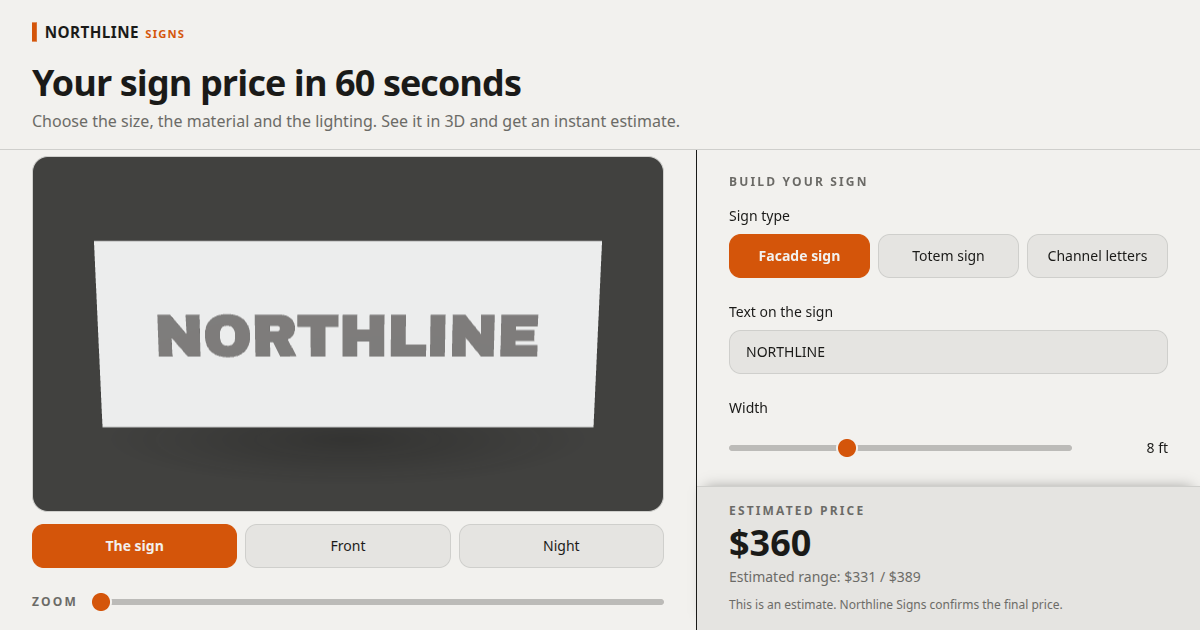
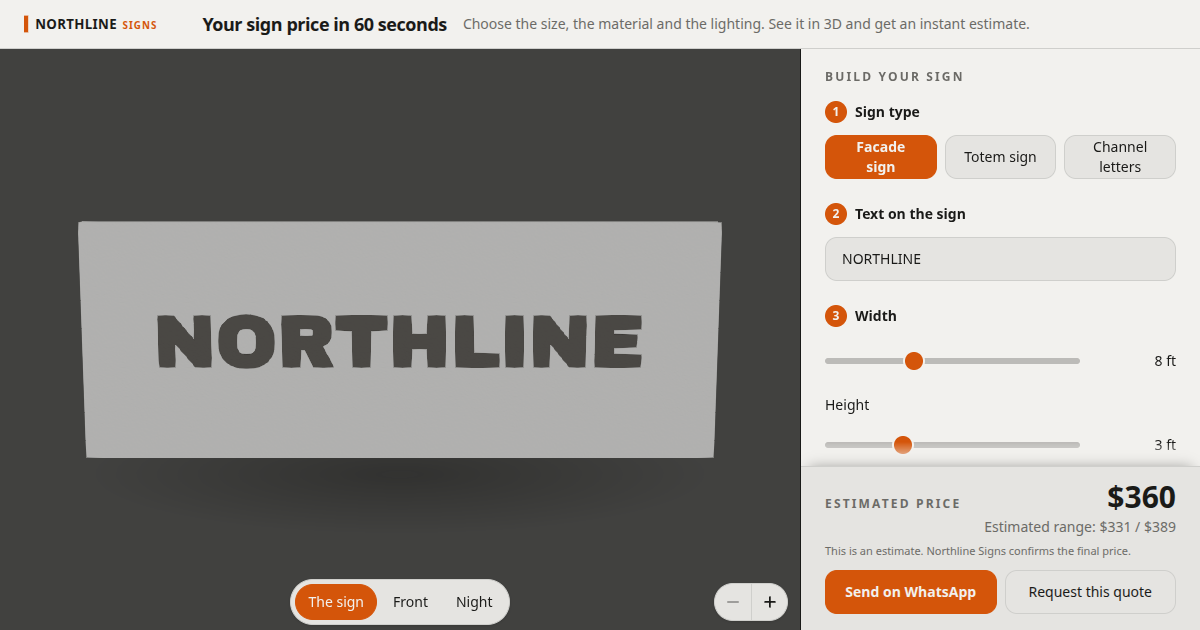
feat: preview a la medida de la foto, franja de controles y material de venta

diff --git a/src/verticals/signs/SignPreview.tsx b/src/verticals/signs/SignPreview.tsx
@@ -3,7 +3,7 @@ import { useEffect, useRef, useState, type CSSProperties } from 'react'
 import type { ClientPhoto, SignSelection } from '../../core/types'
 import type { LoadingBrand } from '../../core/ui/LoadingScreen'
 import { PhotoStage } from './PhotoStage'
-import { containBox, signZoomFactor, zoomBy, zoomFromPinch, type Size } from './scene/sceneGeometry'
+import { containBox, signZoomFactor, zoomBy, zoomFromPinch } from './scene/sceneGeometry'
 import type { SignVisual } from './visuals'
 
 // Viewer del cotizador (SPEC 12, version 1.12), en dos modos sobre el mismo canvas:
@@ -21,11 +21,28 @@ import type { SignVisual } from './visuals'
 //   y dos botones + y -, con aria-label derivado de previewZoomLabel. Los rangos y los dos
 //   mecanismos de SPEC 12 no cambian: en modo cartel acerca la camara, en modo vista escala foto y
 //   canvas por CSS.
+// Desde la version 2.9:
+// - D98, D100: selector y zoom van en una franja al pie de la zona, --q-strip de alto, y nunca
+//   encima de la foto. La caja contain de vista se calcula sobre un area de ajuste: la zona menos
+//   la franja, y en lg ademas menos 24 px por lado. Ese margen lo pone CSS y el area se mide con
+//   ResizeObserver: la vertical no repite el breakpoint del core. El modo cartel no cambia.
+//   En la franja el selector va al centro entre dos rellenos de base 0; el de la derecha no baja
+//   del ancho del zoom, asi en una pantalla angosta el selector se corre a la izquierda antes de
+//   tocarlo, y solo si tampoco entra scrollea.
+// - D98: por debajo de lg la zona mide el ancho dividido por la proporcion de la foto mas la
+//   franja, con tope de 42svh; el ancho sale de 100cqw del area del core. La proporcion es la de
+//   la foto elegida, o en modo cartel la de la ultima elegida o la primera: cambiar de modo no
+//   cambia el alto.
 
 const ZOOM = { min: 1, max: 2.5, step: 0.25 }
 
 // Proporcion de una foto hasta que carga: la de las fotos de la demo.
 const DEFAULT_PHOTO_ASPECT = 16 / 9
+
+// Alto de la franja de controles: el selector y el zoom miden 46 px con su borde.
+const CONTROL_STRIP = '3.5rem'
+
+type Box = { left: number; top: number; width: number; height: number }
 
 // La vista elegida. El modo cartel no es una foto y va en su propia rama, asi ningun id de
 // foto del JSON puede chocar con el.
@@ -86,25 +103,36 @@ export function SignPreview({ selection, visual, theme, photos, zoomLabel, signO
   const reducedMotion = useReducedMotion() === true
   const [view, setView] = useState<View>({ kind: 'sign' })
   const [zoom, setZoom] = useState(ZOOM.min)
-  const [zone, setZone] = useState<Size>({ width: 0, height: 0 })
+  const [fit, setFit] = useState<Box>({ left: 0, top: 0, width: 0, height: 0 })
+  // La ultima foto elegida: da la proporcion del alto mobile tambien en modo cartel.
+  const [lastPhotoId, setLastPhotoId] = useState<string | null>(null)
   const zoneRef = useRef<HTMLDivElement>(null)
+  const fitRef = useRef<HTMLDivElement>(null)
   // Punteros activos sobre la zona, para el pinch con dos dedos.
   const pointers = useRef(new Map<number, { x: number; y: number }>())
   const pinchStart = useRef<{ distance: number; zoom: number } | null>(null)
 
   const photo = view.kind === 'photo' ? (photos.find((item) => item.id === view.id) ?? null) : null
-  const aspect = usePhotoAspect(photo)
+  const framePhoto = photo ?? photos.find((item) => item.id === lastPhotoId) ?? photos.at(0) ?? null
+  const aspect = usePhotoAspect(framePhoto)
 
-  // Tamano de la zona, para la caja contain del modo vista.
+  // El area de ajuste, relativa a la zona, para la caja contain del modo vista. Se mide con
+  // getBoundingClientRect y no con offset: los offset son enteros y la caja tiene que seguir el
+  // rectangulo real para el anclaje.
   useEffect(() => {
-    const element = zoneRef.current
-    if (element === null) {
+    const zoneElement = zoneRef.current
+    const fitElement = fitRef.current
+    if (zoneElement === null || fitElement === null) {
       return undefined
     }
-    const observer = new ResizeObserver(() => {
-      setZone({ width: element.clientWidth, height: element.clientHeight })
-    })
-    observer.observe(element)
+    const measure = (): void => {
+      const outer = zoneElement.getBoundingClientRect()
+      const inner = fitElement.getBoundingClientRect()
+      setFit({ left: inner.left - outer.left, top: inner.top - outer.top, width: inner.width, height: inner.height })
+    }
+    const observer = new ResizeObserver(measure)
+    observer.observe(zoneElement)
+    observer.observe(fitElement)
     return () => {
       observer.disconnect()
     }
@@ -128,19 +156,25 @@ export function SignPreview({ selection, visual, theme, photos, zoomLabel, signO
   }, [])
 
   const options = [
-    { key: 'sign', label: signOnlyLabel, active: photo === null, pick: (): View => ({ kind: 'sign' }) },
+    { key: 'sign', label: signOnlyLabel, active: photo === null, photoId: null, pick: (): View => ({ kind: 'sign' }) },
     ...photos.map((item) => ({
       key: `photo-${item.id}`,
       label: item.label,
       active: photo?.id === item.id,
+      photoId: item.id,
       pick: (): View => ({ kind: 'photo', id: item.id }),
     })),
   ]
 
-  const box = containBox(zone, aspect)
-  // Modo cartel: la caja llena la zona. Modo vista: la caja contain de la foto.
+  const box = containBox(fit, aspect)
+  // Modo cartel: la caja llena la zona. Modo vista: la caja contain de la foto en el area de ajuste.
+  // La posicion va a pixel entero: centrada en el area puede caer en medio pixel, y la foto se
+  // dibujaria remuestreada y blanda. El tamano no se toca, asi la proporcion sigue siendo la de la foto.
   const stageStyle: CSSProperties =
-    photo === null ? { inset: 0 } : { left: box.left, top: box.top, width: box.width, height: box.height }
+    photo === null
+      ? { inset: 0 }
+      : { left: Math.round(fit.left + box.left), top: Math.round(fit.top + box.top), width: box.width, height: box.height }
+  const zoneStyle = { ...theme, '--q-photo-aspect': String(aspect), '--q-strip': CONTROL_STRIP } as CSSProperties
 
   function step(direction: 1 | -1): void {
     setZoom((current) => Math.min(ZOOM.max, Math.max(ZOOM.min, current + direction * ZOOM.step)))
@@ -155,8 +189,8 @@ export function SignPreview({ selection, visual, theme, photos, zoomLabel, signO
     <div
       ref={zoneRef}
       data-preview-zone
-      style={theme}
-      className={`relative h-full w-full touch-none overflow-hidden bg-[var(--q-stage)] ${photo === null ? 'cursor-grab active:cursor-grabbing' : ''}`}
+      style={zoneStyle}
+      className={`relative h-[min(42svh,calc(100cqw/var(--q-photo-aspect)_+_var(--q-strip)))] w-full touch-none lg:h-full overflow-hidden bg-[var(--q-stage)] ${photo === null ? 'cursor-grab active:cursor-grabbing' : ''}`}
       onPointerDownCapture={(event) => {
         pointers.current.set(event.pointerId, { x: event.clientX, y: event.clientY })
         const distance = pinchDistance()
@@ -182,7 +216,9 @@ export function SignPreview({ selection, visual, theme, photos, zoomLabel, signO
         pinchStart.current = null
       }}
     >
-      <div data-preview-stage className="absolute overflow-hidden rounded-2xl" style={stageStyle}>
+      <div ref={fitRef} aria-hidden="true" className="pointer-events-none absolute inset-x-0 top-0 bottom-[var(--q-strip)] lg:inset-x-6 lg:top-6" />
+
+      <div data-preview-stage className="absolute overflow-hidden lg:rounded-2xl" style={stageStyle}>
         <PhotoStage
           selection={selection}
           visual={visual}
@@ -196,48 +232,58 @@ export function SignPreview({ selection, visual, theme, photos, zoomLabel, signO
       </div>
 
       <div
-        role="group"
-        data-view-selector
-        className="q-panel q-hairline absolute bottom-3 left-1/2 z-10 flex max-w-[calc(100%-7rem)] -translate-x-1/2 gap-1 overflow-x-auto rounded-full border p-1 shadow-sm"
+        data-controls
+        className="pointer-events-none absolute inset-x-0 bottom-0 z-10 flex h-[var(--q-strip)] items-center gap-2 px-3"
       >
-        {options.map((option) => (
-          <button
-            key={option.key}
-            type="button"
-            aria-pressed={option.active}
-            className={`${option.active ? 'q-on' : 'text-[var(--q-text)]'} min-h-9 shrink-0 rounded-full px-3 text-xs font-medium whitespace-nowrap transition-colors sm:text-sm`}
-            onClick={() => {
-              setView(option.pick())
-            }}
-          >
-            {option.label}
-          </button>
-        ))}
-      </div>
-
-      <div data-zoom className="q-panel q-hairline absolute right-3 bottom-3 z-10 flex flex-col overflow-hidden rounded-2xl border shadow-sm">
-        <button
-          type="button"
-          aria-label={`${zoomLabel} +`}
-          disabled={zoom >= ZOOM.max}
-          className="flex size-9 items-center justify-center text-[var(--q-text)] disabled:opacity-40"
-          onClick={() => {
-            step(1)
-          }}
+        <div className="min-w-0 flex-1 basis-0" />
+        <div
+          role="group"
+          data-view-selector
+          className="q-panel q-hairline pointer-events-auto flex min-w-0 gap-1 overflow-x-auto rounded-full border p-1 shadow-sm"
         >
-          <PlusIcon />
-        </button>
-        <button
-          type="button"
-          aria-label={`${zoomLabel} -`}
-          disabled={zoom <= ZOOM.min}
-          className="q-hairline flex size-9 items-center justify-center border-t text-[var(--q-text)] disabled:opacity-40"
-          onClick={() => {
-            step(-1)
-          }}
-        >
-          <MinusIcon />
-        </button>
+          {options.map((option) => (
+            <button
+              key={option.key}
+              type="button"
+              aria-pressed={option.active}
+              className={`${option.active ? 'q-on' : 'text-[var(--q-text)]'} min-h-9 shrink-0 rounded-full px-3 text-xs font-medium whitespace-nowrap transition-colors sm:text-sm`}
+              onClick={() => {
+                setView(option.pick())
+                if (option.photoId !== null) {
+                  setLastPhotoId(option.photoId)
+                }
+              }}
+            >
+              {option.label}
+            </button>
+          ))}
+        </div>
+        <div className="flex flex-1 basis-0 justify-end">
+          <div data-zoom className="q-panel q-hairline pointer-events-auto flex shrink-0 overflow-hidden rounded-full border shadow-sm">
+            <button
+              type="button"
+              aria-label={`${zoomLabel} -`}
+              disabled={zoom <= ZOOM.min}
+              className="flex size-9 items-center justify-center text-[var(--q-text)] disabled:opacity-40"
+              onClick={() => {
+                step(-1)
+              }}
+            >
+              <MinusIcon />
+            </button>
+            <button
+              type="button"
+              aria-label={`${zoomLabel} +`}
+              disabled={zoom >= ZOOM.max}
+              className="q-hairline flex size-9 items-center justify-center border-l text-[var(--q-text)] disabled:opacity-40"
+              onClick={() => {
+                step(1)
+              }}
+            >
+              <PlusIcon />
+            </button>
+          </div>
+        </div>
       </div>
     </div>
   )

diff --git a/src/core/ui/QuoteLayout.tsx b/src/core/ui/QuoteLayout.tsx
@@ -2,15 +2,17 @@ import { useEffect, useMemo, useRef, type ReactNode } from 'react'
 import { themeFromClient } from '../theme'
 import type { ClientConfig } from '../types'
 
-// Layout de SPEC 4.1, version 2.8 (D90, D93, D95). No conoce ninguna vertical: recibe preview,
+// Layout de SPEC 4.1, version 2.9 (D90, D93, D95, D98, D99). No conoce ninguna vertical: recibe preview,
 // panel, precio y CTA como nodos.
 // - Header compacto en una linea: logo, titulo y subtitulo mas chico. El nombre de la marca no se
-//   repite al lado del logo: viaja en el alt de la imagen.
+//   repite al lado del logo: viaja en el alt de la imagen. Por debajo de lg (D99) sale el
+//   subtitulo y el titulo baja a dos lineas como maximo, en un tamano menor, sin truncar.
 // - Desktop (1024 px o mas): el preview ocupa todo el ancho menos el panel y todo el alto util
 //   (100dvh menos el header). El panel mide 400 px, con scroll propio, y deja fijos al pie el precio
 //   y el CTA.
-// - Menos de 1024 px: el preview queda arriba, sticky, con 42svh de alto, y el panel scrollea
-//   debajo. La barra fija al pie lleva precio y CTA.
+// - Menos de 1024 px: el preview queda arriba, sticky, y el panel scrollea debajo. La barra fija
+//   al pie lleva precio y CTA. El alto del preview lo da el preview (D98), con tope de 42svh: el
+//   area es un contenedor de consulta, asi el preview puede derivar su alto del ancho que le toca.
 // El relleno inferior del panel en mobile se deriva de la altura real de la barra, medida con
 // ResizeObserver y publicada en --q-price-h: la barra crece si el disclaimer ocupa mas de una linea
 // o si se abre el formulario, y un valor fijo tapaba el ultimo control.
@@ -58,16 +60,16 @@ export function QuoteLayout({ config, preview, panel, price, cta }: QuoteLayoutP
     >
       <header className="q-hairline flex shrink-0 items-center gap-3 border-b px-4 py-2.5 sm:px-6 lg:gap-4">
         <img src={brand.logo} alt={brand.name} className="h-7 w-auto shrink-0" />
-        <h1 className="min-w-0 truncate text-base leading-tight font-semibold tracking-tight sm:text-lg md:shrink-0">
+        <h1 className="min-w-0 text-sm leading-snug font-semibold tracking-tight text-balance sm:text-base lg:shrink-0 lg:truncate lg:text-lg lg:leading-tight">
           {texts.headline}
         </h1>
-        <p className="hidden min-w-0 flex-1 truncate text-sm text-[var(--q-muted)] md:block">{texts.subheadline}</p>
+        <p className="hidden min-w-0 flex-1 truncate text-sm text-[var(--q-muted)] lg:block">{texts.subheadline}</p>
       </header>
 
       <main className="flex flex-1 flex-col lg:min-h-0 lg:flex-row">
         <div
           data-preview-area
-          className="sticky top-0 z-10 h-[42svh] shrink-0 lg:static lg:h-auto lg:min-h-0 lg:min-w-0 lg:flex-1"
+          className="@container sticky top-0 z-10 max-h-[42svh] shrink-0 lg:static lg:max-h-none lg:min-h-0 lg:min-w-0 lg:flex-1"
         >
           {preview}
         </div>

diff --git a/src/pages/QuotePage.tsx b/src/pages/QuotePage.tsx
@@ -120,8 +120,9 @@ function QuoteScreen({ config }: QuoteScreenProps) {
         // El modo de calibracion es de desarrollo: import.meta.env.DEV vale false en el
         // build de produccion, asi que esta rama y su modulo quedan fuera del bundle.
         import.meta.env.DEV && searchParams.get('calibrate') === '1' ? (
-          // El area del preview tiene alto fijo desde la version 2.8 (D90): la herramienta scrollea.
-          <div className="h-full overflow-y-auto p-4">
+          // En lg el area del preview tiene alto fijo desde la version 2.8 (D90), y por debajo de lg
+          // el alto lo da el preview desde 2.9 (D98): la herramienta toma 42svh y scrollea.
+          <div className="h-[42svh] overflow-y-auto p-4 lg:h-full">
             <CalibrationPreview
               selection={selection}
               visual={visual}
